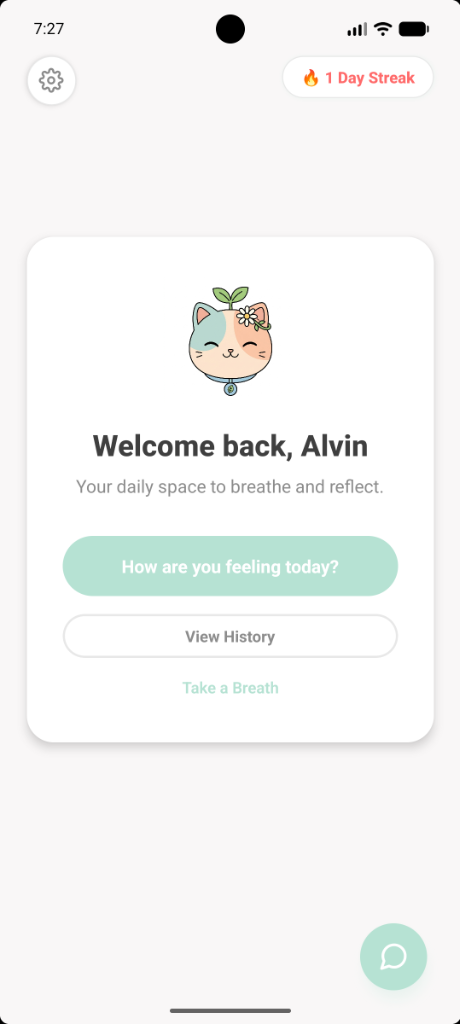
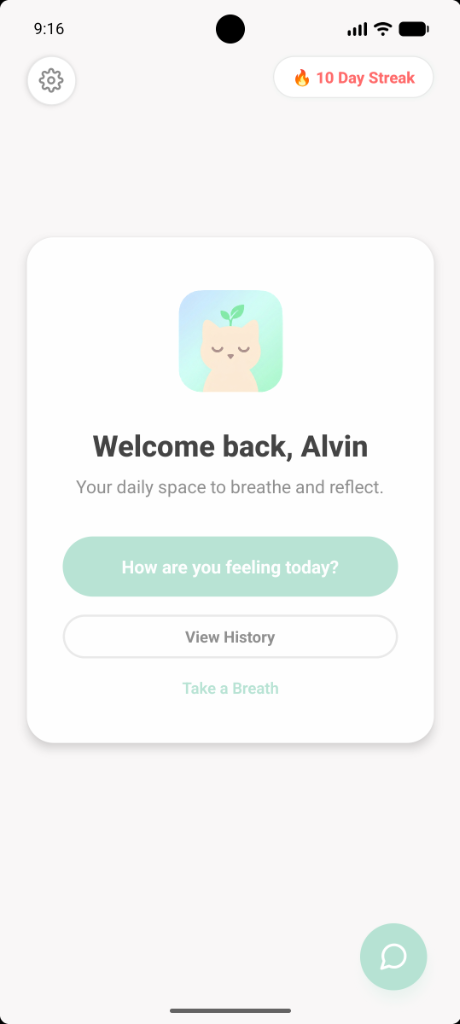
add oasis showcase

Changed region(s): [[0.3652, 0.2812, 0.6391, 0.4062], [0.6391, 0.0625, 0.7304, 0.0938], [0.0609, 0.0, 0.1522, 0.0312]]

diff --git a/src/app/apps/[id]/page.tsx b/src/app/apps/[id]/page.tsx
@@ -133,10 +133,29 @@ export default async function AppDetailsPage({ params }: { params: Promise<{ id:
           </div>
         </section>
 
+        {/* Feature 4: Privacy & PIN */}
+        <section className={`${styles.container} ${styles.feature2}`}>
+          <div className={styles.f2Text}>
+            <div className={styles.iconBadgeBlue} style={{ background: 'rgba(232, 232, 232, 0.5)', color: '#A0AAB2' }}>
+              <svg fill="none" stroke="currentColor" viewBox="0 0 24 24"><path strokeLinecap="round" strokeLinejoin="round" strokeWidth="2" d="M12 15v2m-6 4h12a2 2 0 002-2v-6a2 2 0 00-2-2H6a2 2 0 00-2 2v6a2 2 0 002 2zm10-10V7a4 4 0 00-8 0v4h8z"></path></svg>
+            </div>
+            <h2 className={styles.fTitle}>100% Private & Secure.</h2>
+            <p className={styles.fDesc}>
+              Your journals and thoughts belong to you. Secure your safe space with a PIN lock, ensuring that no one else can read your personal reflections.
+            </p>
+          </div>
+          <div className={styles.f2Visual}>
+             <div className={`${styles.samsungMockup} ${styles.floatCenter}`}>
+               <Image src="/showcase/oasis/pin.png" alt="Oasis PIN Lock" width={300} height={649} style={{ borderRadius: '30px', objectFit: 'cover' }} />
+            </div>
+          </div>
+        </section>
+
         {/* Screenshot Gallery Section */}
         <section style={{ width: '100%', overflow: 'hidden' }}>
           <ScreenshotGallery screenshots={[
             "/showcase/oasis/welcome.png", 
+            "/showcase/oasis/pin.png",
             "/showcase/oasis/history.png", 
             "/showcase/oasis/insights.png", 
             "/showcase/oasis/chat.png", 